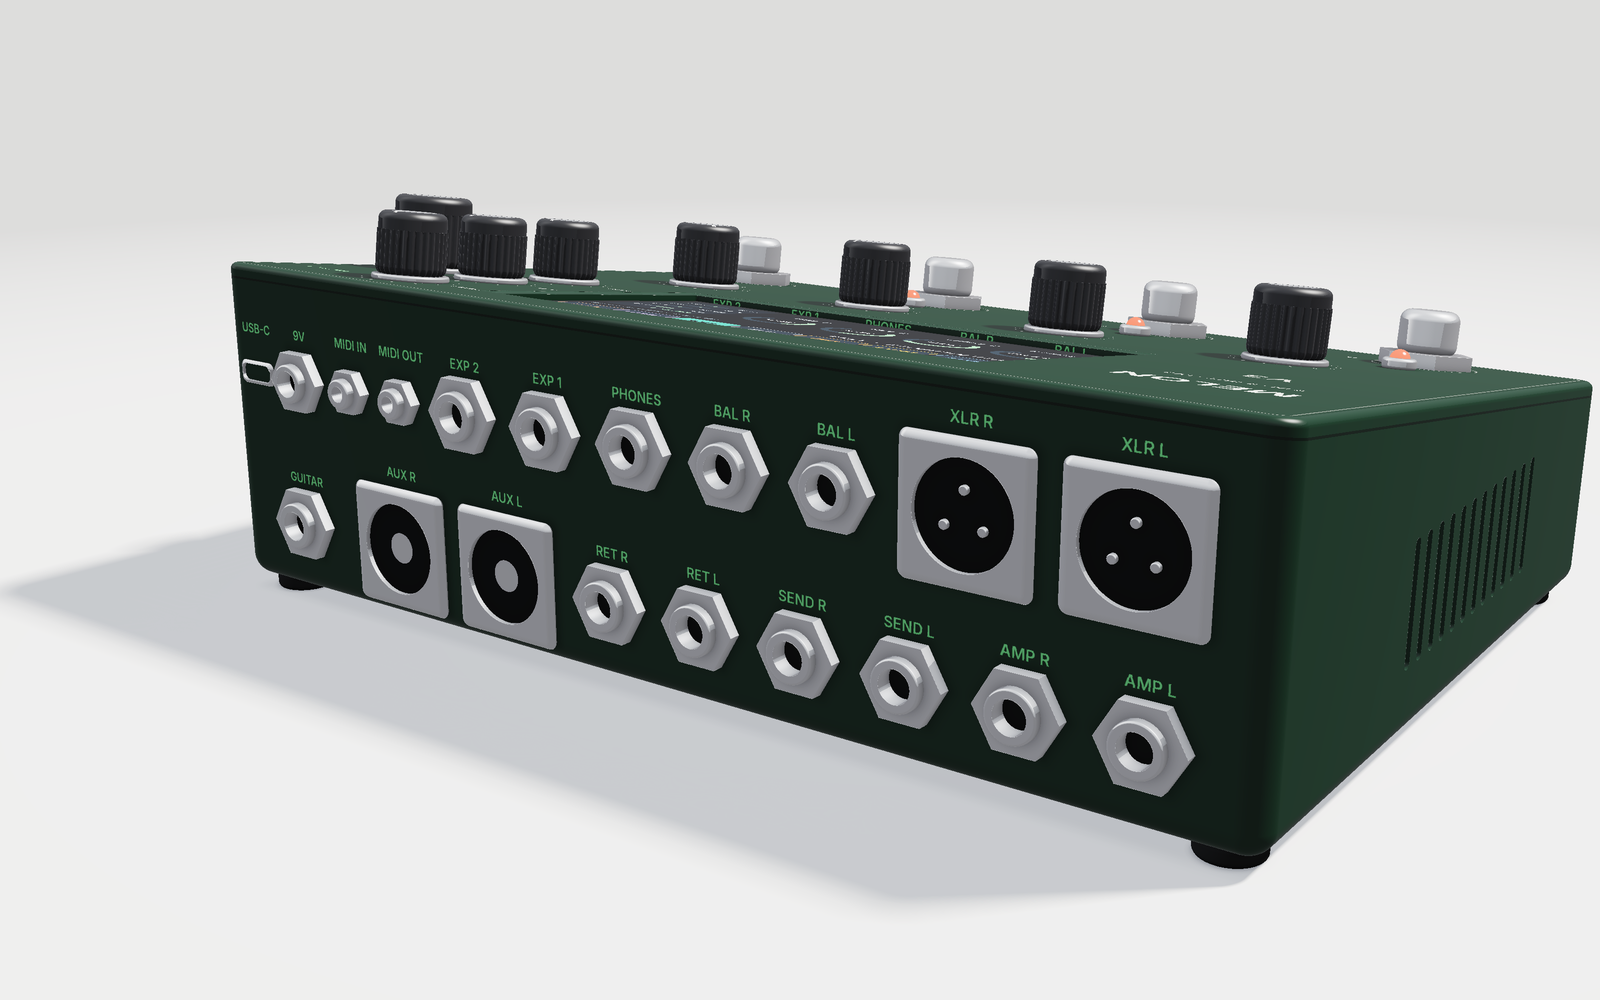
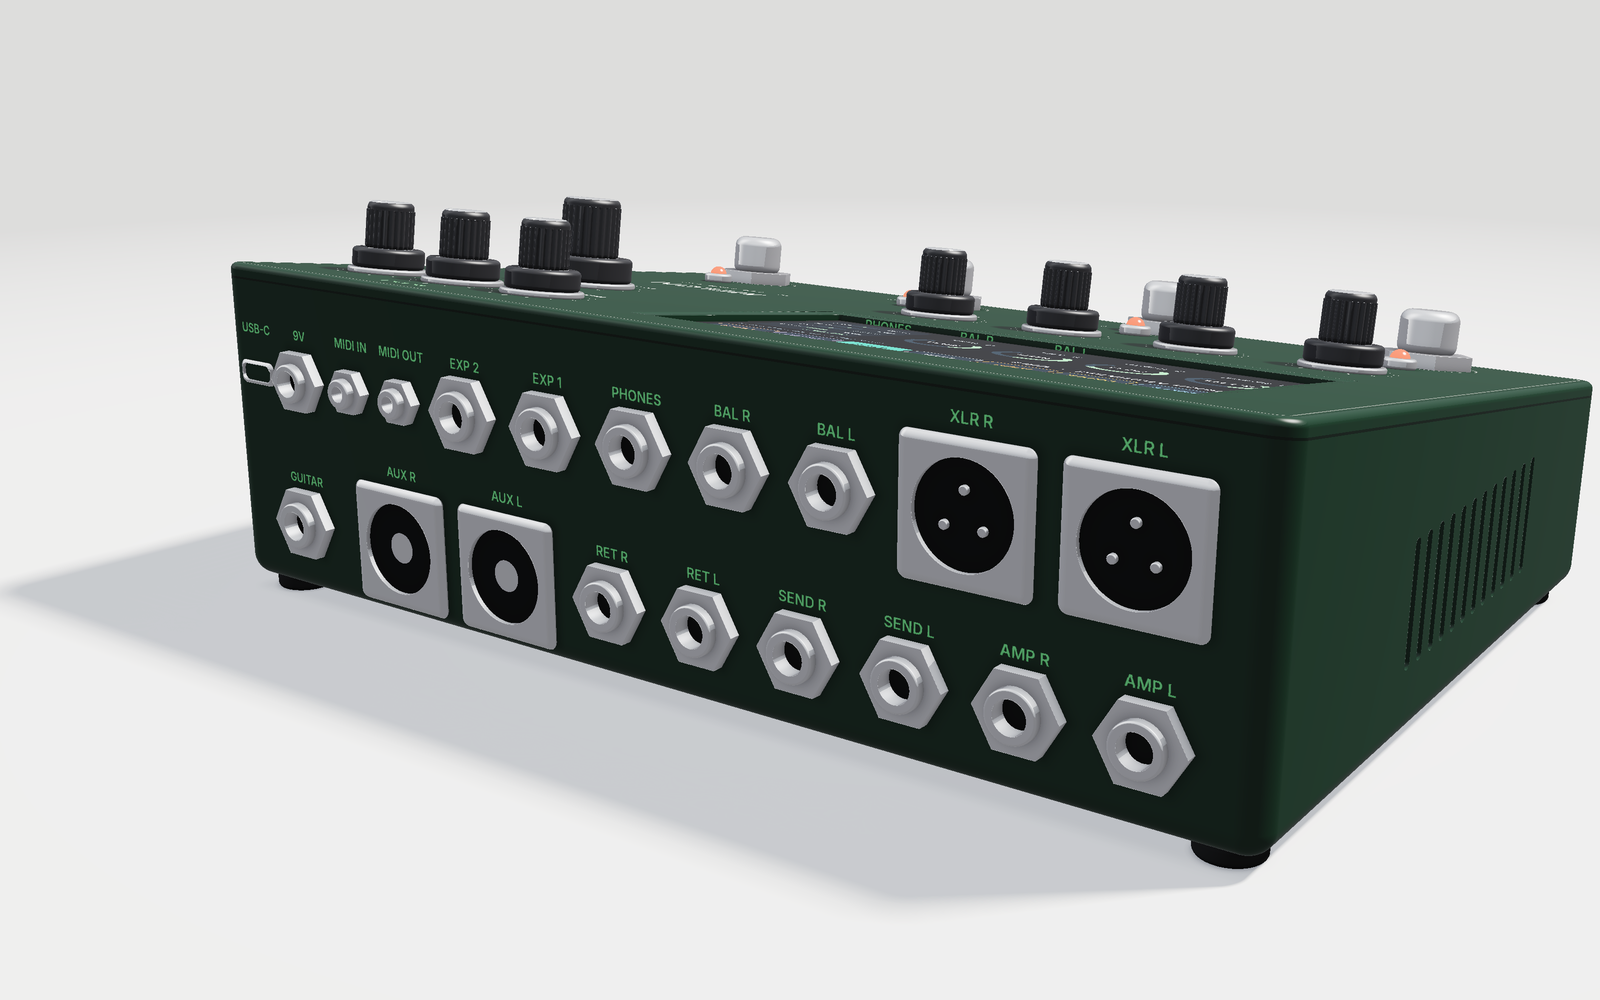
V3 top: encoders within the screen width, EQ knobs in a row, bigger volume, stepped knobs
- screen moved left, output section on the right, logo at the front right
- encoders 1-4 under the screen; first and last washers inside the 111.5 mm viewing width
- BASS / MID / TREBLE in a horizontal row, VOLUME below it (20 mm vs 15 mm skirt)
- all knobs stepped: wide skirt + narrower knurled cap

Claude-Session: https://claude.ai/code/session_01ECLxpAKN3sxNJa1vdSt4CW

Changed region(s): [[0.2188, 0.186, 0.875, 0.403]]

diff --git a/hardware/enclosure/v3-floor/render_v3.py b/hardware/enclosure/v3-floor/render_v3.py
@@ -65,16 +65,20 @@ def to_flat(p):
     return q
 
 
-KNOBS = [flat((x, -22.0)) for x in (-75.0, -25.0, 25.0, 75.0)]       # encoders 1-4 (edit the screen)
-# output section right of the screen: pots, absolute position (x, y, cap radius, label, pointer angle)
-OUT_KNOBS = [(flat((80.0, 68.0)), 7.0, "TREBLE", 100), (flat((80.0, 45.0)), 7.0, "MID", 80),
-             (flat((80.0, 22.0)), 7.0, "BASS", 95), (flat((104.5, 40.0)), 8.5, "VOLUME", 20)]
-ALL_KNOBS = [(k, 7.6, a) for k, a in zip(KNOBS, (-40, 25, 70, 140))] + [(k, r, a) for k, r, _, a in OUT_KNOBS]
+SCREEN_X = -40.0                  # screen on the left, output section on the right (2026-11-25)
+KNOB_R, VOL_R = 7.6, 9.8          # stepped knobs: skirt radius (the upper cap is 0.64 x that)
+# encoders 1-4 under the screen: the outer edge of the first and last washers stays inside the window width
+ENC_SPAN = 55.75 - (KNOB_R + 0.9) - 0.5
+KNOBS = [flat((SCREEN_X + ENC_SPAN * t, -22.0)) for t in (-1.0, -1 / 3, 1 / 3, 1.0)]
+# output section: EQ in a horizontal row, a bigger VOLUME below it (x, y, skirt radius, label, pointer angle)
+OUT_KNOBS = [(flat((50.0, 60.0)), KNOB_R, "BASS", 95), (flat((73.0, 60.0)), KNOB_R, "MID", 80),
+             (flat((96.0, 60.0)), KNOB_R, "TREBLE", 100), (flat((73.0, 22.0)), VOL_R, "VOLUME", 20)]
+ALL_KNOBS = [(k, KNOB_R, a) for k, a in zip(KNOBS, (-40, 25, 70, 140))] + [(k, r, a) for k, r, _, a in OUT_KNOBS]
 FOOTS = [flat((x, -62.0)) for x in (-90.0, -30.0, 30.0, 90.0)]
 LEDS = [flat((x, -46.0)) for x in (-90.0, -30.0, 30.0, 90.0)]
 # Raspberry Pi Touch Display 2, 5": outline 143.5 x 91.5 x 16 mm (under the lid), viewing area 111.5 x 63,
 # active 110.4 x 62.1, 720 x 1280 used in landscape. Glass close to the surface so a finger reaches the edges.
-LCD_C = flat((0.0, 35.0))         # window centre (flat frame)
+LCD_C = flat((SCREEN_X, 35.0))    # window centre (flat frame)
 PANEL_HALF = (71.75, 45.75)       # module outline (inside, for clearance only)
 LCD_HALF = (59.0, 34.5)           # 1 mm chamfered recess around the window
 WIN_HALF = (55.75, 31.5)          # window = viewing area
@@ -196,14 +200,17 @@ def scene(p, want_mat=False):
     metal = np.maximum(metal, -hole)
     ds.append(metal)
     p = pf
-    # knobs (black, knurled skirt)
+    # stepped knobs (black): wide smooth skirt, narrower knurled cap on top
     knob = None
     for (kx, ky), r, _ in ALL_KNOBS:
         u, v = p[:, 0] - kx, p[:, 1] - ky
         ang = np.arctan2(v, u)
-        hk = 14.0 * r / 7.6
-        knurl = 0.22 * np.cos(30 * ang) * (p[:, 2] < ZT + hk - 2.5)
-        kd = sd_cyl(p, (kx, ky, ZT + 1.2), 2, r, hk, 1.6) + knurl
+        hs, hc = 4.2 * r / 7.6, 10.5 * r / 7.6               # skirt height, cap height
+        skirt = sd_cyl(p, (kx, ky, ZT + 1.2), 2, r, hs, 0.9)
+        zc = ZT + 1.2 + hs - 0.5
+        knurl = 0.2 * np.cos(24 * ang) * (p[:, 2] < zc + hc - 1.8)
+        cap = sd_cyl(p, (kx, ky, zc), 2, 0.64 * r, hc, 1.3) + knurl
+        kd = np.minimum(skirt, cap)
         knob = kd if knob is None else np.minimum(knob, kd)
     ds.append(knob)
     # LCD glass (under the window, behind the 3 mm lid)
@@ -272,30 +279,24 @@ def make_top_texture():
     cream = CREAM + (255,)
     f_big = font("Bold", int(9.0 * TEX_PX))
     f_small = font("Medium", int(3.0 * TEX_PX))
-    cx, cy = xy(-90.0, 50.0 / CA)
+    cx, cy = xy(70.0, -17.0 / CA)
     dr.text((cx, cy), "MELON", font=f_big, fill=cream, anchor="mm")
-    cx, cy = xy(-90.0, 38.0 / CA)
-    dr.text((cx, cy), "6 IN · 8 OUT · LV2", font=f_small, fill=CREAM + (200,), anchor="mm")
-    cx, cy = xy(-90.0, 22.0 / CA)
-    dr.text((cx, cy), "V3", font=font("Bold", int(7.0 * TEX_PX)), fill=CREAM + (150,), anchor="mm")
+    cx, cy = xy(70.0, -28.0 / CA)
+    dr.text((cx, cy), "V3  ·  6 IN · 8 OUT · LV2", font=f_small, fill=CREAM + (200,), anchor="mm")
     f_num = font("SemiBold", int(3.4 * TEX_PX))
     for (kx, ky), kr, _ in ALL_KNOBS:
         cx, cy = xy(kx, ky)
-        r = (kr + 2.2) * TEX_PX
+        r = (kr + 2.0) * TEX_PX
         for a in np.linspace(np.radians(-225), np.radians(45), 11):
             x0, y0 = cx + r * np.cos(a), cy + r * np.sin(a)
             x1, y1 = cx + (r + 1.6 * TEX_PX) * np.cos(a), cy + (r + 1.6 * TEX_PX) * np.sin(a)
             dr.line((x0, y0, x1, y1), fill=CREAM + (170,), width=int(0.45 * TEX_PX))
     f_lab = font("SemiBold", int(2.9 * TEX_PX))
     for (kx, ky), kr, label, _ in OUT_KNOBS:
-        if label == "VOLUME":
-            tx, ty = xy(kx, ky - kr - 7.5)
-        else:
-            tx, ty = xy(kx - kr - 10.0, ky)
-        dr.text((tx, ty), label, font=f_lab if label == "VOLUME" else font("SemiBold", int(2.4 * TEX_PX)),
-                fill=cream, anchor="mm")
-    # output section title
-    tx, ty = xy(104.5, 70.0)
+        tx, ty = xy(kx, ky - kr - 7.0)
+        dr.text((tx, ty), label, font=f_lab, fill=cream, anchor="mm")
+    # output section title + a thin line between EQ and volume
+    tx, ty = xy(73.0, 77.0)
     dr.text((tx, ty), "OUTPUT", font=font("Bold", int(3.0 * TEX_PX)), fill=LABEL + (240,), anchor="mm")
     for i, (kx, ky) in enumerate(KNOBS):
         cx, cy = xy(kx, ky)

diff --git a/docs/product-versions.md b/docs/product-versions.md
@@ -33,6 +33,8 @@ Three versions are planned, from the simplest to the most complete. Only V1 and 
 - Not audio: 2 × expression pedal (I2C ADC), MIDI in/out, 9 V DC, USB-C for charging, optional USB-A for an external interface (the software already supports any class-compliant interface).
 - **Back panel:** about 14 connectors do not fit in one row on 240 mm: two rows (the back is ~70 mm tall), some on a side panel, or a slightly wider box.
 
+**Top layout (2026-11-25):** the screen sits on the left, the output section on the right. The four encoders are in a row under the screen; the first and last stay inside the screen's width (centres 62.5 mm from the screen centre, washers inside the 111.5 mm viewing area). The output section has **BASS, MID, TREBLE in a horizontal row** with a **bigger VOLUME** knob under it; the logo moved to the front right, next to the encoders. All knobs are **stepped** (wide skirt with the scale pointer, narrower knurled cap on top): ~15 mm skirt / ~10 mm cap, VOLUME ~20 mm / ~12.5 mm. They need 6 mm shafts (D or knurled) to fit the encoders and pots.
+
 **Output section (2026-11-25):** four pots right of the screen: **VOLUME** and a three-band output EQ (**BASS, MID, TREBLE**). They are a master section like on an amp: they act on the whole pedal, after the effect chain, and do not change with presets.
 - **Pots, not encoders:** the knob position is always what you hear, also after a preset change or a reboot. 10 kΩ linear; the EQ pots with a centre detent (flat). Pi 5 has no analog inputs, so they are read by a **second ADS1115** (I2C 0x49; the first one at 0x48 reads EXP 1/2). That leaves 2 spare channels.
 - **Done in DSP, not with an analog tone stack:** there are 8 outputs, and one analog EQ + volume per output pair would mean lots of parts, noise and dual-gang pots. A small output stage after the chain does it: low shelf ~100 Hz, peaking mid ~800 Hz (Q 0.7), high shelf ~3.2 kHz, each ±12 dB, then volume (−∞ … +6 dB, audio taper in software). Smoothed to avoid zipper noise. Cost on the Pi 5: well under 1 % (3 biquads × 2 channels). Plan: a new "Melon Output" LV2 plugin in melon_plugins that melon-pedald always puts at the end of the chain; it is not shown as a normal block.

diff --git a/hardware/enclosure/v3-floor/README.md b/hardware/enclosure/v3-floor/README.md
@@ -1,6 +1,6 @@
 # V3 floor unit: concept renders (2026-11-24)
 
-First look at the planned V3 (see [product versions](../../../docs/product-versions.md)): 5" touch screen (Raspberry Pi Touch Display 2), four encoders, an output section (VOLUME, BASS, MID, TREBLE pots, right of the screen), four footswitches (A–D) with LEDs, 6 in / 8 out audio board, battery. About 240 × 170 mm, 45 → 70 mm high. **Concept only:** no enclosure generator or STLs yet, and every size is an estimate.
+First look at the planned V3 (see [product versions](../../../docs/product-versions.md)): 5" touch screen (Raspberry Pi Touch Display 2), four encoders under the screen (within its width), an output section on the right (BASS, MID, TREBLE in a row, a bigger VOLUME below), stepped knobs, four footswitches (A–D) with LEDs, 6 in / 8 out audio board, battery. About 240 × 170 mm, 45 → 70 mm high. **Concept only:** no enclosure generator or STLs yet, and every size is an estimate.
 
 ![Hero](render-v3-hero.png)
 
